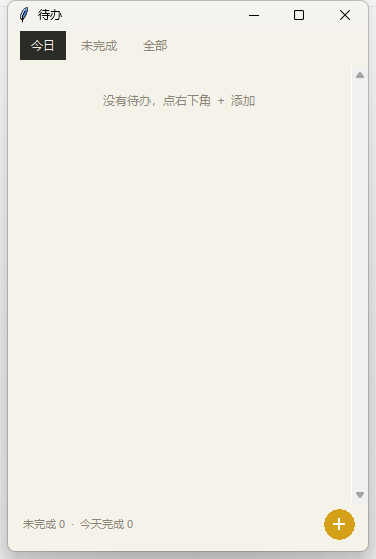
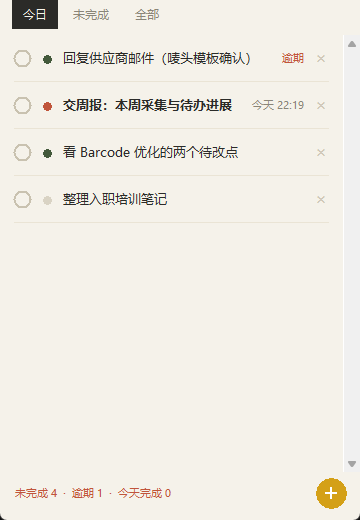
文档：同步红色优先级、局部更新说明与脱敏示例截图
- README：优先级最高级改为红色；补充后台写入/局部更新/失焦防抖说明
- 9 号方案：记录优先级 bug 根因与卡顿实测结论
- 截图换成临时库的示例数据（不含用户真实待办）

diff --git a/README.md b/README.md
@@ -92,7 +92,7 @@ python main.py dashboard
 |---|---|
 | **点右下角 ＋** | 列表末尾出现一行输入框，`Enter` 保存、`Esc` 取消 |
 | **单击标题** | 该行**原地**变输入框，`Enter` 或失焦保存、`Esc` 还原 |
-| **点行首圆点** | 优先级循环：低（灰）→ 中（绿）→ 高（琥珀）→ 低 |
+| **点行首圆点** | 优先级循环：低（灰）→ 中（绿）→ 高（红）→ 低 |
 | **点左侧圆圈** | 完成 / 取消完成 |
 | **点右侧 ×** | 直接删除，无确认弹窗 |
 | **F5** | 手动刷新 |
@@ -101,6 +101,8 @@ python main.py dashboard
 - 窗口位置和大小会记住，下次打开保持原样
 - 单实例：重复打开只会激活已有窗口
 - 行内编辑期间会暂停 3 秒轮询，避免输入框被刷新重建
+- 写操作在后台线程完成，界面只做**局部更新**（改色 / 改文字 / 销毁单行），不会因整表重建而卡顿
+- 失焦保存有 80ms 防抖，避免点击瞬间焦点抖动把输入框立刻提交
 
 > 当前界面只暴露「标题 / 完成 / 优先级 / 删除」四项。备注、截止、提醒时间的**数据字段保留、已有待办的提醒照常触发**，但本轮不提供编辑入口（见 `9-待办界面精简改造方案.md`）。
 

diff --git a/9-待办界面精简改造方案.md b/9-待办界面精简改造方案.md
@@ -2,6 +2,8 @@
 
 > 状态：**已确认并实施** · 2026-11-07
 > 确认口径：新建入口采用**纯 ＋ 号圆形按钮**；提醒时间按 A 暂时移除；优先级用点击循环；误删不做兜底。
+> 追加修复（21:00）：优先级循环曾因 `cur or 1` 把低(0)吞成中(1)，退化为「灰↔高」两态；已改为显式三态循环，最高级改红色。
+> 同时修复点击后卡顿：根因是每次操作全量销毁重建列表（`update_idletasks()` 单项约 100ms），改为局部更新 + 后台异步写入。
 > 取代 `8-待办界面改造方案（移动端范式）.md` 的三视图设计；`7-待办交互改进计划.md` 的热键等改动全部推迟。
 
 ---
@@ -83,7 +85,7 @@
 |---|---|---|
 | 低 | 浅灰 `#D9D3C4` | 常规 |
 | 中 | 深绿 `#43593B` | 常规 |
-| 高 | 琥珀 `#D4A017` | 加粗 |
+| 高 | 红 `#C0553B` | 加粗 |
 
 - **点击行首圆点 → 低 → 中 → 高 → 低** 循环，立即写库（`PATCH priority`）
 - 悬停显示当前级别小提示（复用现有 tooltip 机制）
